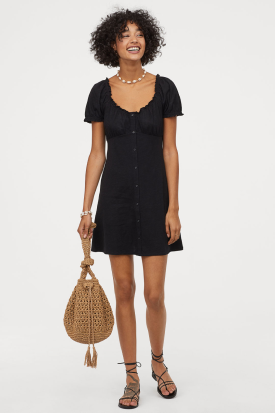
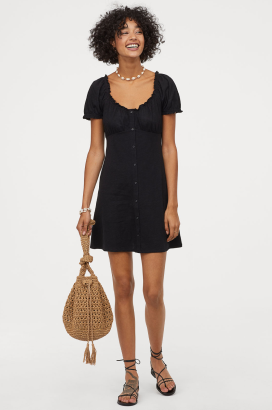
Product details and checkout screens

diff --git a/lib/screens/product_details/productDetails_screen.dart b/lib/screens/product_details/productDetails_screen.dart
@@ -51,11 +51,10 @@ class _ProductDetailsScreenState extends State<ProductDetailsScreen> {
                 Container(
                   height: deviceHeight * 0.52,
                   child: ListView.builder(
-                    itemBuilder: (context, index) => Container(
-                      decoration: BoxDecoration(color: Colors.black),
-                      //simpley replace the container with the images
-                      width: deviceWidth * 0.75,
-                      margin: EdgeInsets.only(right: 4.0, bottom: 5.0),
+                    itemBuilder: (context, index) => 
+                      Image.asset("assets/images/products/shortdress.png",
+                        width: deviceWidth * 0.75,
+                        height: deviceHeight * 0.52,
                     ),
                     scrollDirection: Axis.horizontal,
                     itemCount: list.length,

diff --git a/lib/screens/checkout/views/success1_view.dart b/lib/screens/checkout/views/success1_view.dart
@@ -29,7 +29,7 @@ class _Success1ViewState extends State<Success1View> {
       decoration: new BoxDecoration(
         borderRadius: BorderRadius.circular(AppSizes.imageRadius),
         image: new DecorationImage(
-            fit: BoxFit.fitWidth,
+            fit: BoxFit.fitHeight,
             image: AssetImage("assets/images/checkout/success.png")
         )
       ),
